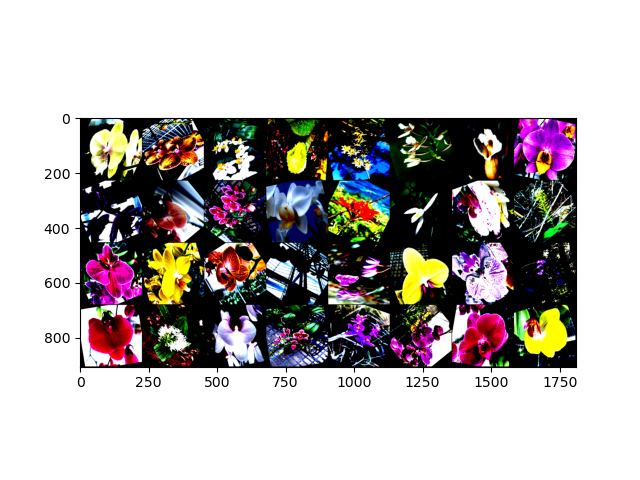
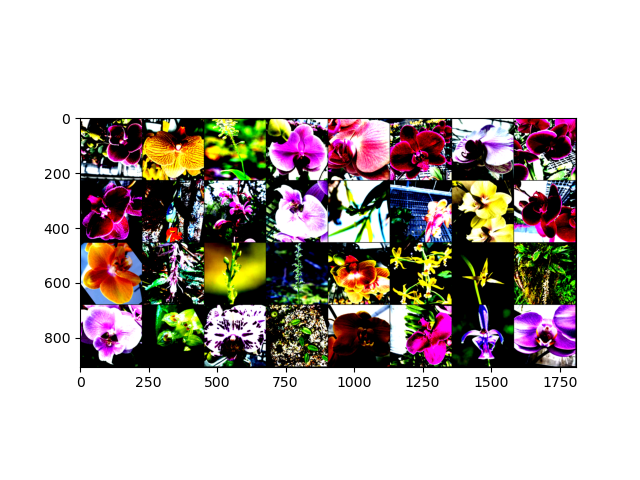
retest RandomChoice+水平翻轉+垂直翻轉+旋轉 中心裁減 normalize

diff --git a/hw2.py b/hw2.py
@@ -61,18 +61,18 @@ data_transforms = {
             # transforms.CenterCrop((480,480)),
             # torchvision.transforms.RandomHorizontalFlip(p=0.5),
             # torchvision.transforms.RandomRotation(20),
+
+            transforms.RandomChoice([
+              transforms.RandomHorizontalFlip(p=0.5),
+              transforms.RandomVerticalFlip(p=0.5),
+              transforms.RandomRotation(180),
+            ]),
+            transforms.CenterCrop((480,480)),
             transforms.Resize((224,224) ),
 
-            # transforms.RandomChoice([
-            #   transforms.RandomHorizontalFlip(p=0.5),
-            #   transforms.RandomVerticalFlip(p=0.5),
-            #   transforms.RandomRotation(180),
-            # ]),
-            # transforms.CenterCrop((480,480)),
-
-            torchvision.transforms.RandomHorizontalFlip(p=0.5),
-            torchvision.transforms.RandomVerticalFlip(p=0.5),
-            torchvision.transforms.RandomRotation(40),
+            # torchvision.transforms.RandomHorizontalFlip(p=0.5),
+            # torchvision.transforms.RandomVerticalFlip(p=0.5),
+            # torchvision.transforms.RandomRotation(40),
 
             ########################################
             transforms.ToTensor(),
